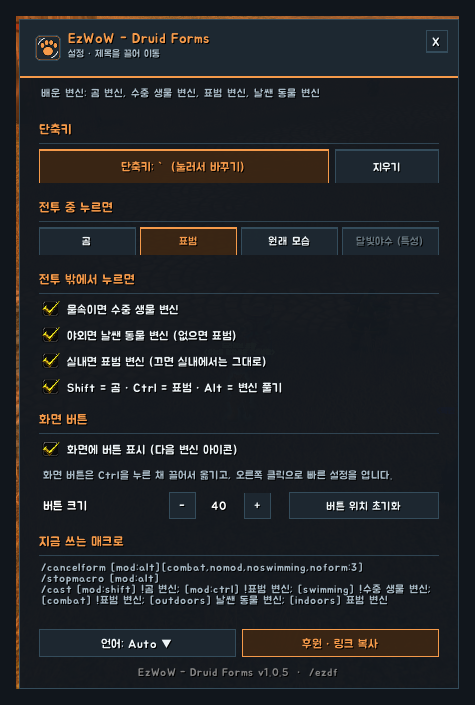
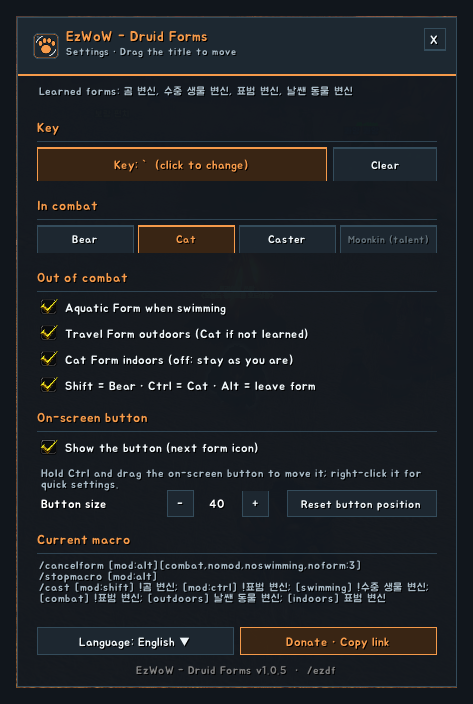
영어 설명용 게임 화면 추가

Changed region(s): [[0.0296, 0.0, 0.9767, 1.0], [0.5032, 0.7188, 0.5624, 0.75], [0.9175, 0.9062, 0.9471, 0.9375]]

diff --git a/docs/curseforge_description.md b/docs/curseforge_description.md
@@ -11,7 +11,7 @@ One key for the right druid form in WoW Forever: Aquatic Form in water, Travel F
 
 ![Settings window](https://raw.githubusercontent.com/qqhrqqhr2/EzWoW-DruidForms/master/docs/images/ui_en.png)
 
-*In-game screenshots (WoW Forever, Korean client). Character and player names and chat text are blurred.*
+*In-game screenshots with the addon set to English. The game client is Korean, so game text such as zone, item and spell names stays Korean. Character and player names and chat text are blurred.*
 
 ## Features
 

diff --git a/README.md b/README.md
@@ -41,7 +41,7 @@ One key for the right druid form.
 
 ![Settings window](https://raw.githubusercontent.com/qqhrqqhr2/EzWoW-DruidForms/master/docs/images/ui_en.png)
 
-> In-game screenshots (WoW Forever, Korean client). Character and player names and chat text are blurred.
+> In-game screenshots with the addon set to English. The game client is Korean, so game text such as zone, item and spell names stays Korean. Character and player names and chat text are blurred.
 
 | Situation | Press |
 |---|---|
